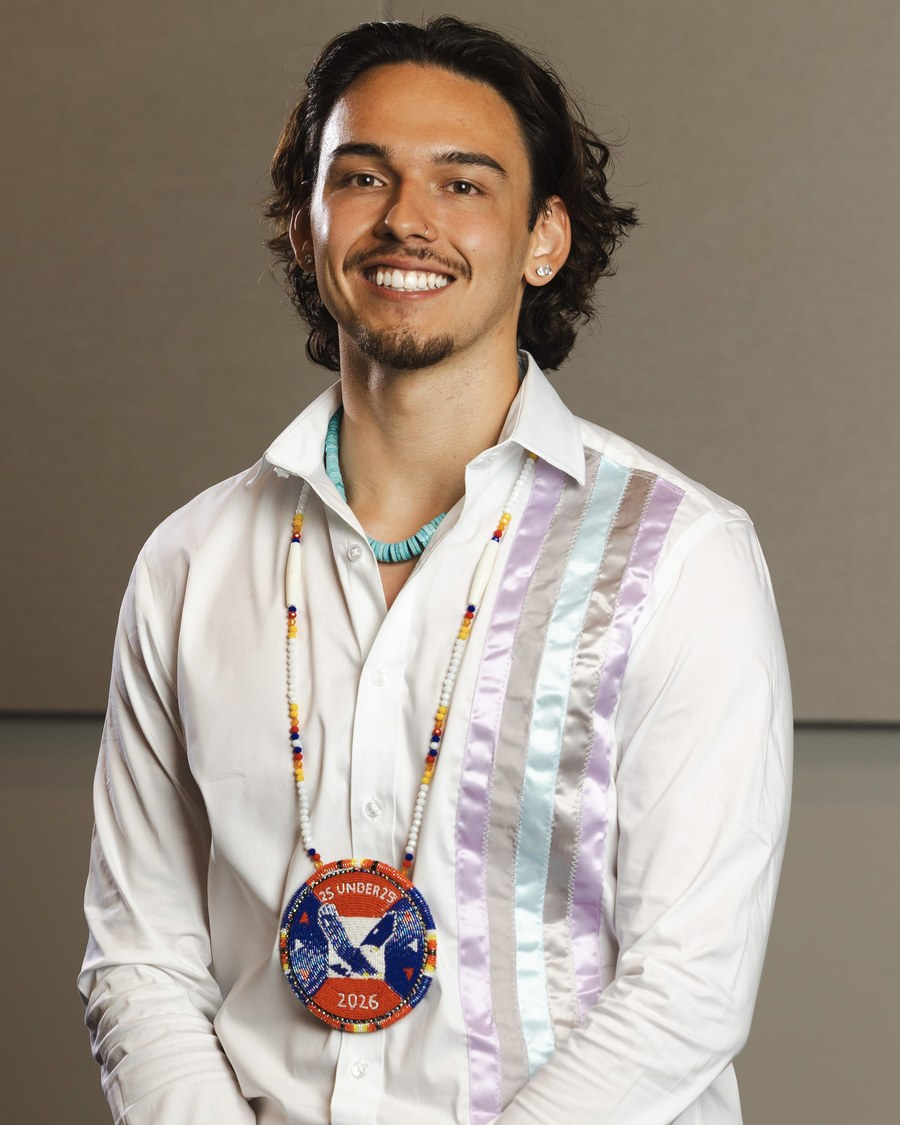
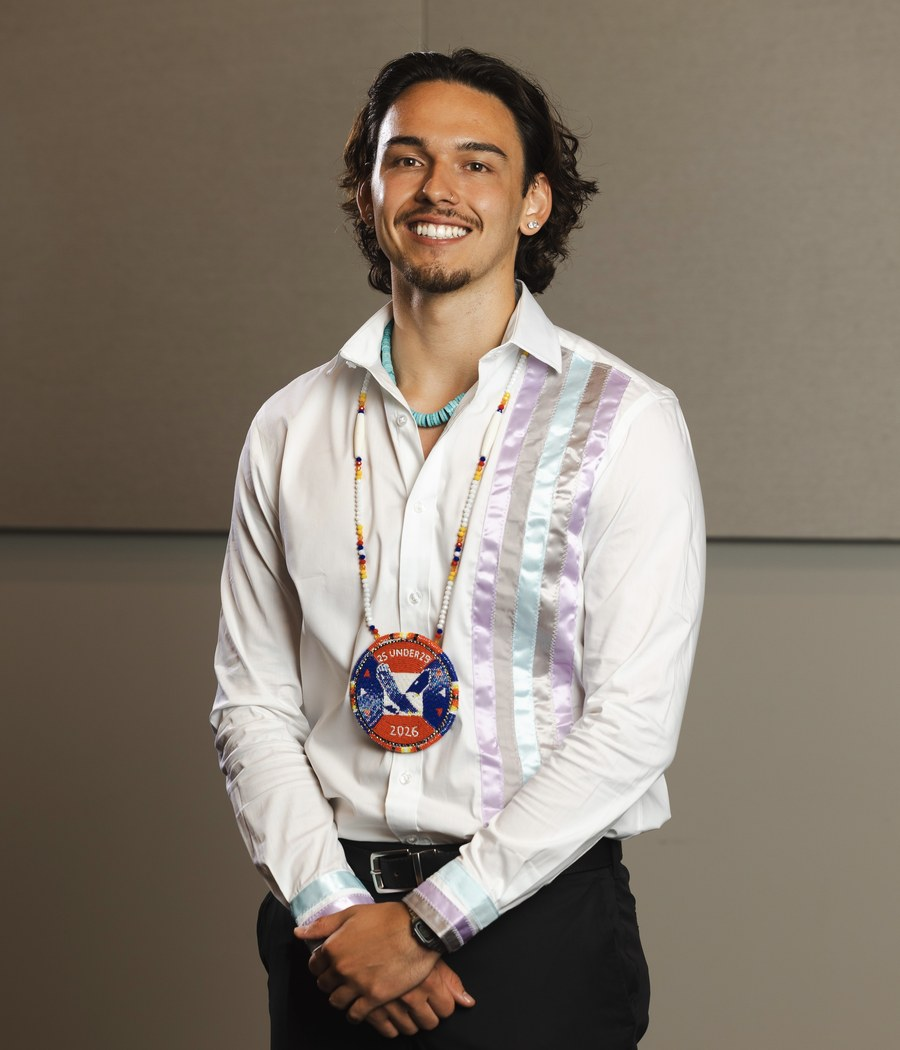
Use the full uncropped portrait, stacked above the founder text

diff --git a/public/styles.css b/public/styles.css
@@ -703,19 +703,15 @@ details.questions li { margin-bottom: 9px; }
 
 /* ---------- Founder block ---------- */
 
-.founder {
-  display: grid;
-  grid-template-columns: 300px 1fr;
-  gap: 38px;
-  align-items: start;
-}
-
+/* Photo stacked above the text, left edge aligned with the copy below it. */
 .founder-photo {
   width: 100%;
+  max-width: 420px;
   height: auto;
   border-radius: var(--radius);
   border: 1px solid var(--border);
   box-shadow: var(--shadow);
+  margin-bottom: 28px;
 }
 
 .founder-name { margin-bottom: .15em; }
@@ -732,11 +728,6 @@ details.questions li { margin-bottom: 9px; }
   flex-wrap: wrap;
   gap: 7px;
   margin-top: 18px;
-}
-
-@media (max-width: 760px) {
-  .founder { grid-template-columns: 1fr; gap: 26px; }
-  .founder-photo { max-width: 300px; }
 }
 
 /* ---------- Pull quote ---------- */

diff --git a/public/about.html b/public/about.html
@@ -53,9 +53,7 @@
       <h2>The founder</h2>
 
       <div class="founder">
-        <div>
-          <img class="founder-photo" src="img/kiian-huenemann.jpg" alt="Kiian Huenemann" width="900" height="1125">
-        </div>
+        <img class="founder-photo" src="img/kiian-huenemann.jpg" alt="Kiian Huenemann" width="900" height="1050">
         <div>
           <h3 class="founder-name">Kiian Huenemann</h3>
           <p class="founder-role">Founder, Indigenius</p>
